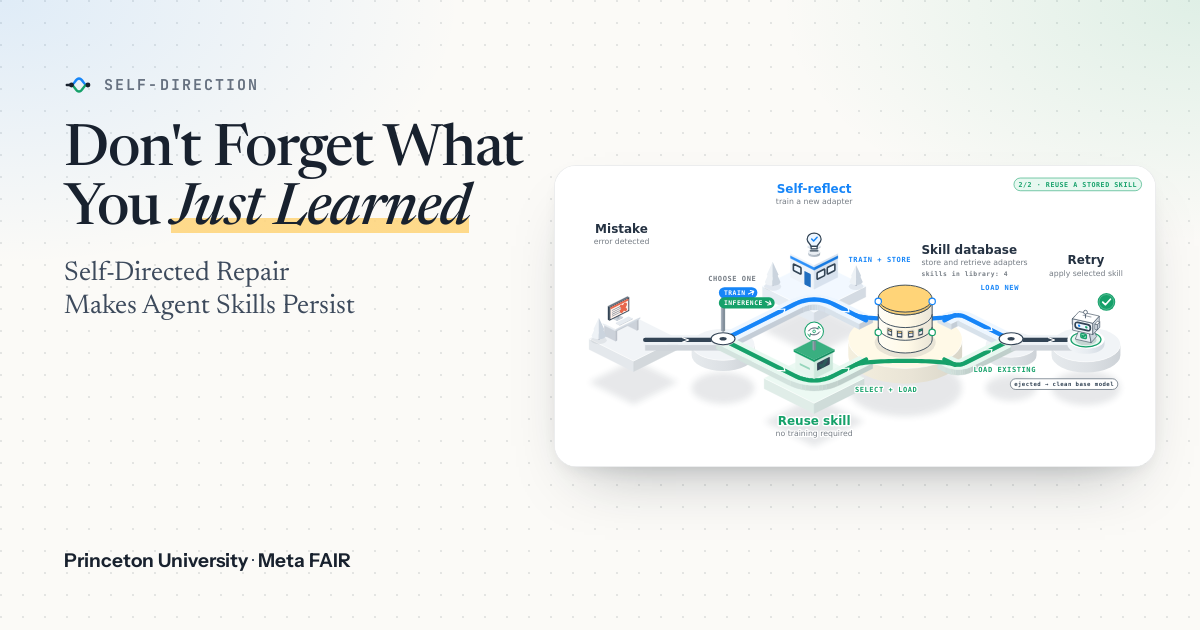
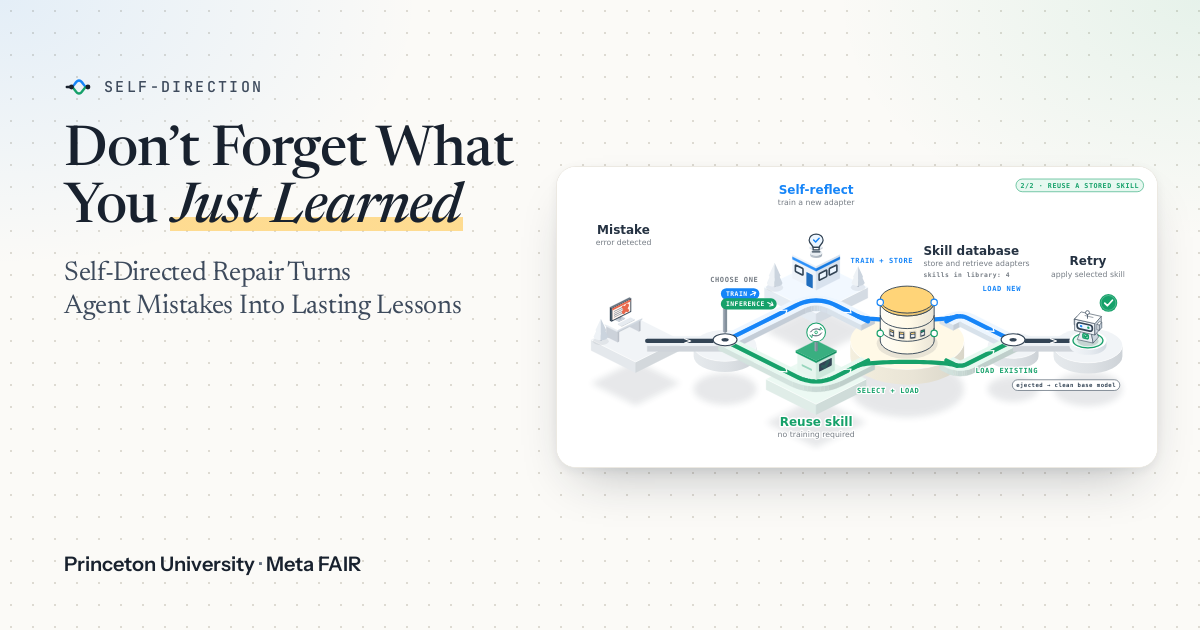
Push new version with updated links and title

diff --git a/index.html b/index.html
@@ -5,7 +5,7 @@
   <meta name="viewport" content="width=device-width, initial-scale=1">
 
   <!-- Primary Meta Tags -->
-  <meta name="title" content="Don't Forget What You Just Learned: Self-Directed Repair Makes Agent Skills Persist">
+  <meta name="title" content="Don’t Forget What You Just Learned: Self-Directed Repair Turns Agent Mistakes Into Lasting Lessons">
   <meta name="description" content="Self-Direction turns an agent's failures into small, persistent LoRA skills: the same model reflects on its mistake, distills a reusable adapter, and retries, while the base model stays frozen.">
   <meta name="keywords" content="Self-Direction, continual learning, LLM agents, LoRA adapters, test-time learning, skill library, self-reflection, GAIA, Terminal-Bench, Claw-Eval">
   <meta name="author" content="Yuval Kansal, Karen Ullrich, Polina Kirichenko, Ilia Kulikov, Niraj K. Jha, Mohammad Pezeshki, Mark Ibrahim">
@@ -15,7 +15,7 @@
   <!-- Open Graph / Facebook -->
   <meta property="og:type" content="article">
   <meta property="og:site_name" content="Self-Direction">
-  <meta property="og:title" content="Don't Forget What You Just Learned: Self-Directed Repair Makes Agent Skills Persist">
+  <meta property="og:title" content="Don’t Forget What You Just Learned: Self-Directed Repair Turns Agent Mistakes Into Lasting Lessons">
   <meta property="og:description" content="When an agent fails, Self-Direction turns the failure into a small LoRA skill that repairs the retry and is reused on related tasks later.">
   <!-- TODO: replace with the deployed URL (e.g. https://<user>.github.io/self-direction/) -->
   <meta property="og:url" content="https://YOUR_DOMAIN/self-direction/">
@@ -31,13 +31,13 @@
 
   <!-- Twitter -->
   <meta name="twitter:card" content="summary_large_image">
-  <meta name="twitter:title" content="Don't Forget What You Just Learned: Self-Directed Repair Makes Agent Skills Persist">
+  <meta name="twitter:title" content="Don’t Forget What You Just Learned: Self-Directed Repair Turns Agent Mistakes Into Lasting Lessons">
   <meta name="twitter:description" content="When an agent fails, Self-Direction turns the failure into a small LoRA skill that repairs the retry and is reused on related tasks later.">
   <meta name="twitter:image" content="static/images/social_preview.png">
   <meta name="twitter:image:alt" content="Self-Direction: an agent turns a failed task into a reusable skill adapter">
 
   <!-- Academic/Research Specific (Google Scholar) -->
-  <meta name="citation_title" content="Don't Forget What You Just Learned: Self-Directed Repair Makes Agent Skills Persist">
+  <meta name="citation_title" content="Don’t Forget What You Just Learned: Self-Directed Repair Turns Agent Mistakes Into Lasting Lessons">
   <meta name="citation_author" content="Kansal, Yuval">
   <meta name="citation_author" content="Ullrich, Karen">
   <meta name="citation_author" content="Kirichenko, Polina">
@@ -46,11 +46,12 @@
   <meta name="citation_author" content="Pezeshki, Mohammad">
   <meta name="citation_author" content="Ibrahim, Mark">
   <meta name="citation_publication_date" content="2026">
-  <!-- TODO: add citation_pdf_url / citation_arxiv_id once the paper is public -->
+  <meta name="citation_arxiv_id" content="2610.31846">
+  <meta name="citation_pdf_url" content="https://arxiv.org/pdf/2610.31846">
 
   <meta name="theme-color" content="#FBFAF7">
 
-  <title>Self-Direction · Don't Forget What You Just Learned</title>
+  <title>Self-Direction · Don’t Forget What You Just Learned</title>
 
   <!-- Lets CSS hide scroll-reveal blocks only when JS can reveal them again -->
   <script>document.documentElement.classList.add('js');</script>
@@ -73,7 +74,7 @@
   {
     "@context": "https://schema.org",
     "@type": "ScholarlyArticle",
-    "headline": "Don't Forget What You Just Learned: Self-Directed Repair Makes Agent Skills Persist",
+    "headline": "Don’t Forget What You Just Learned: Self-Directed Repair Turns Agent Mistakes Into Lasting Lessons",
     "description": "Self-Direction turns an agent's failures into small, persistent LoRA skills that repair the retry and are reused on related tasks later, while the base model stays frozen.",
     "author": [
       {"@type": "Person", "name": "Yuval Kansal", "url": "https://yuvalkansal.me", "affiliation": {"@type": "Organization", "name": "Princeton University"}},
@@ -142,8 +143,8 @@
       </p>
 
       <h1 class="paper-title">
-        <span class="title-main">Don't Forget What You <em>Just Learned</em>:</span>
-        <span class="title-sub">Self-Directed Repair Makes Agent Skills Persist</span>
+        <span class="title-main">Don’t Forget What You <em>Just Learned</em>:</span>
+        <span class="title-sub">Self-Directed Repair Turns Agent Mistakes Into Lasting Lessons</span>
       </h1>
 
       <p class="authors">
@@ -162,15 +163,10 @@
       <p class="footnote-line"><sup>*</sup>Work done during an internship at Meta FAIR.</p>
       <!-- TODO: add the venue line once it is public, e.g. <p class="venue">Conference 2027</p> -->
 
-      <!-- TODO: point these at the real PDF / arXiv / code; then drop aria-disabled and the "soon" tag -->
       <div class="link-row">
-        <a class="pill-btn is-soon" href="#" aria-disabled="true">
+        <a class="pill-btn" href="https://arxiv.org/abs/2610.31846" target="_blank" rel="noopener">
           <svg viewBox="0 0 24 24" aria-hidden="true"><path d="M14 3H7a2 2 0 0 0-2 2v14a2 2 0 0 0 2 2h10a2 2 0 0 0 2-2V8z"/><path d="M14 3v5h5M9 13h6M9 17h6"/></svg>
-          <span>Paper</span><span class="soon">soon</span>
-        </a>
-        <a class="pill-btn is-soon" href="#" aria-disabled="true">
-          <svg viewBox="0 0 24 24" aria-hidden="true"><rect x="3" y="4" width="18" height="5" rx="1.5"/><path d="M5 9v9a2 2 0 0 0 2 2h10a2 2 0 0 0 2-2V9M10 13h4"/></svg>
-          <span>arXiv</span><span class="soon">soon</span>
+          <span>Paper</span>
         </a>
         <a class="pill-btn" href="implementation.html">
           <svg viewBox="0 0 24 24" aria-hidden="true"><path d="M9 18l-6-6 6-6M15 6l6 6-6 6"/></svg>
@@ -815,14 +811,14 @@
           <span class="copy-text">Copy</span>
         </button>
       </div>
-      <!-- TODO: update the key, venue/arXiv ID and year once the paper is public -->
+      <!-- TODO: update the venue once the paper is published -->
       <pre id="bibtex-code"><code>@article{kansal2026selfdirection,
   title   = {Don't Forget What You Just Learned: Self-Directed Repair
-             Makes Agent Skills Persist},
+             Turns Agent Mistakes Into Lasting Lessons},
   author  = {Kansal, Yuval and Ullrich, Karen and Kirichenko, Polina and
              Kulikov, Ilia and Jha, Niraj K. and Pezeshki, Mohammad and
              Ibrahim, Mark},
-  journal = {arXiv preprint},
+  journal = {arXiv preprint arXiv:2610.31846},
   year    = {2026}
 }</code></pre>
     </div>

diff --git a/implementation.html b/implementation.html
@@ -167,7 +167,7 @@ def classify(result):
         </div>
         <figure class="code-card">
           <figcaption class="code-head"><span class="code-file">memory.py</span><span class="code-tag">sqlite3</span></figcaption>
-<pre class="code"><code class="language-python">import sqlite3
+<pre class="code"><code class="language-python">import sqlite3, json
 
 db = sqlite3.connect("failures.db", isolation_level=None)
 db.execute("PRAGMA journal_mode=WAL")       # safe under job requeues
@@ -181,6 +181,11 @@ CREATE TABLE IF NOT EXISTS failures (
     status TEXT NOT NULL DEFAULT 'open',     -- 'open' | 'resolved'
     resolution_skill_id TEXT                 -- adapter that fixed it, or 'base'
 )""")
+
+def write(task, reason, trajectory, key):
+    db.execute("INSERT OR IGNORE INTO failures (dedupe_key, task, reason, trajectory_json) "
+               "VALUES (?, ?, ?, ?)", (key, task, reason, json.dumps(trajectory)))
+    return db.execute("SELECT id FROM failures WHERE dedupe_key = ?", (key,)).fetchone()[0]
 
 def resolve(failure_id, skill_id):
     db.execute("UPDATE failures SET status = 'resolved', resolution_skill_id = ? "

diff --git a/README.md b/README.md
@@ -1,6 +1,6 @@
 # Self-Direction · project page
 
-Project page for **"Don't Forget What You Just Learned: Self-Directed Repair Makes Agent Skills Persist"**
+Project page for **"Don’t Forget What You Just Learned: Self-Directed Repair Turns Agent Mistakes Into Lasting Lessons"**
 (Yuval Kansal, Karen Ullrich, Polina Kirichenko, Ilia Kulikov, Niraj K. Jha, Mohammad Pezeshki, Mark Ibrahim).
 
 Built on the [Academic Project Page Template](https://github.com/eliahuhorwitz/Academic-project-page-template)
@@ -47,10 +47,8 @@ uv run --with pymupdf python tools/extract_paper_figures.py path/to/paper.pdf
 
 Search `index.html` for `TODO`:
 
-- [ ] Paper, arXiv and Code links. They are currently grey "soon" buttons: set `href`, then drop
-      `aria-disabled` and the `soon` tag.
 - [ ] `og:url`, plus absolute URLs for `og:image` / `twitter:image` once the site is deployed.
-- [ ] `citation_pdf_url` / arXiv id, the BibTeX venue line, and the venue line under the authors.
+- [ ] The BibTeX venue line and the venue line under the authors, once the paper is published.
 - [ ] Re-check numbers against the camera-ready paper. They match the submitted version (main text, Tables 1 and 7,
       Appendix C.6–C.8). KPI tiles and prose in `index.html` repeat some of the chart numbers.
 
